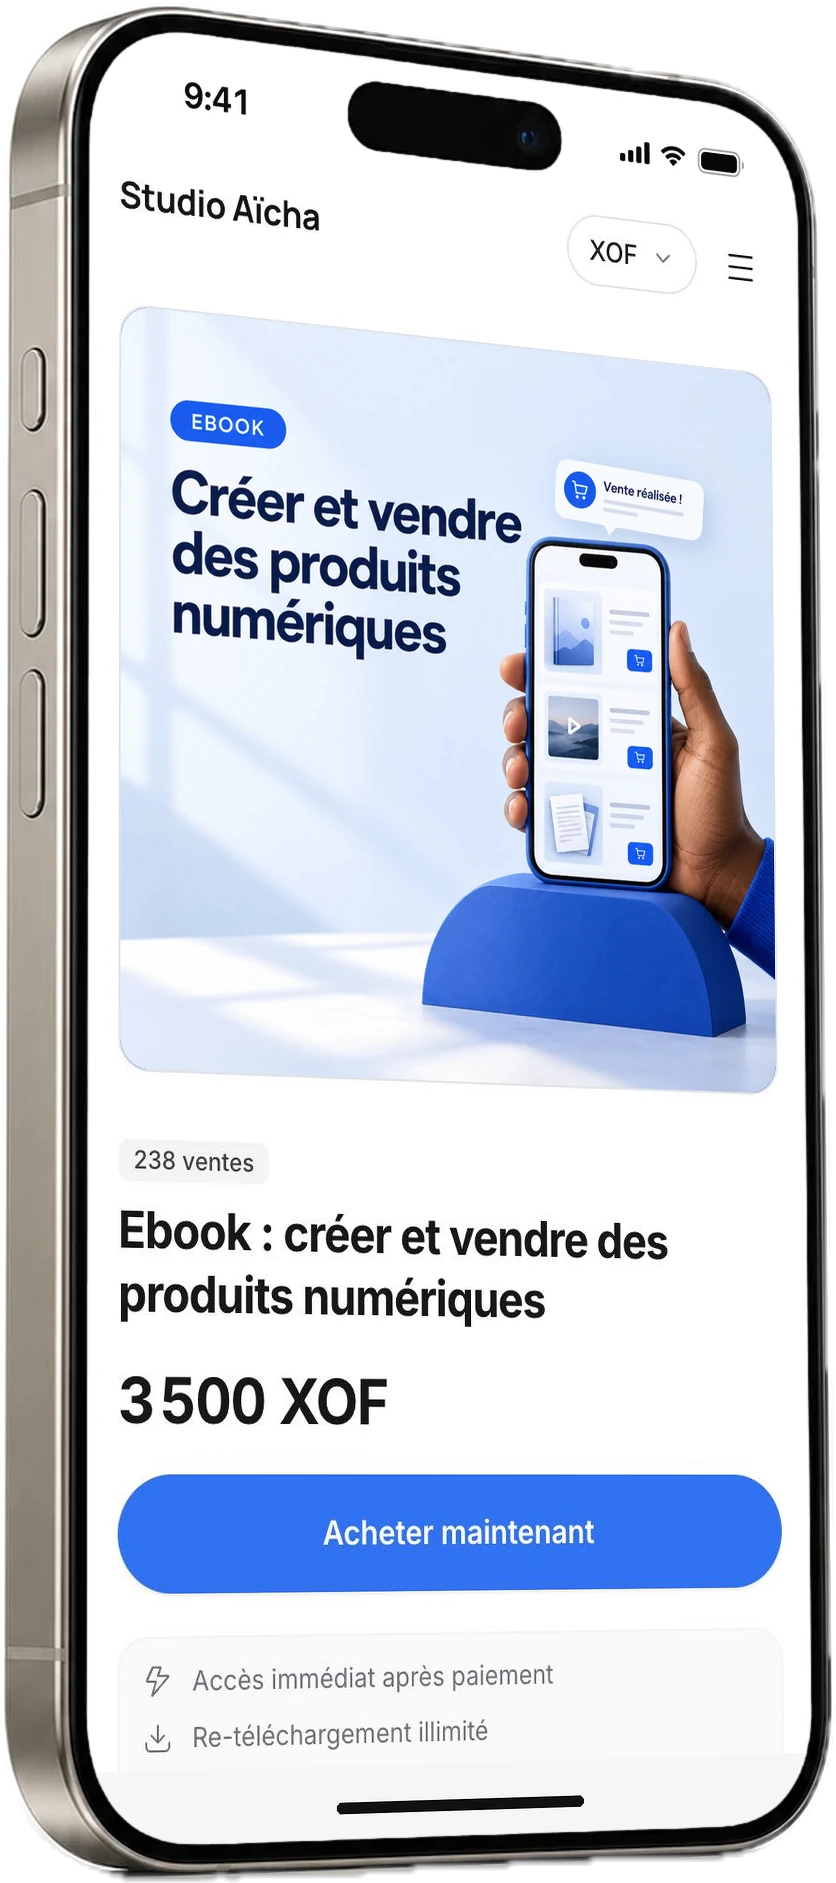
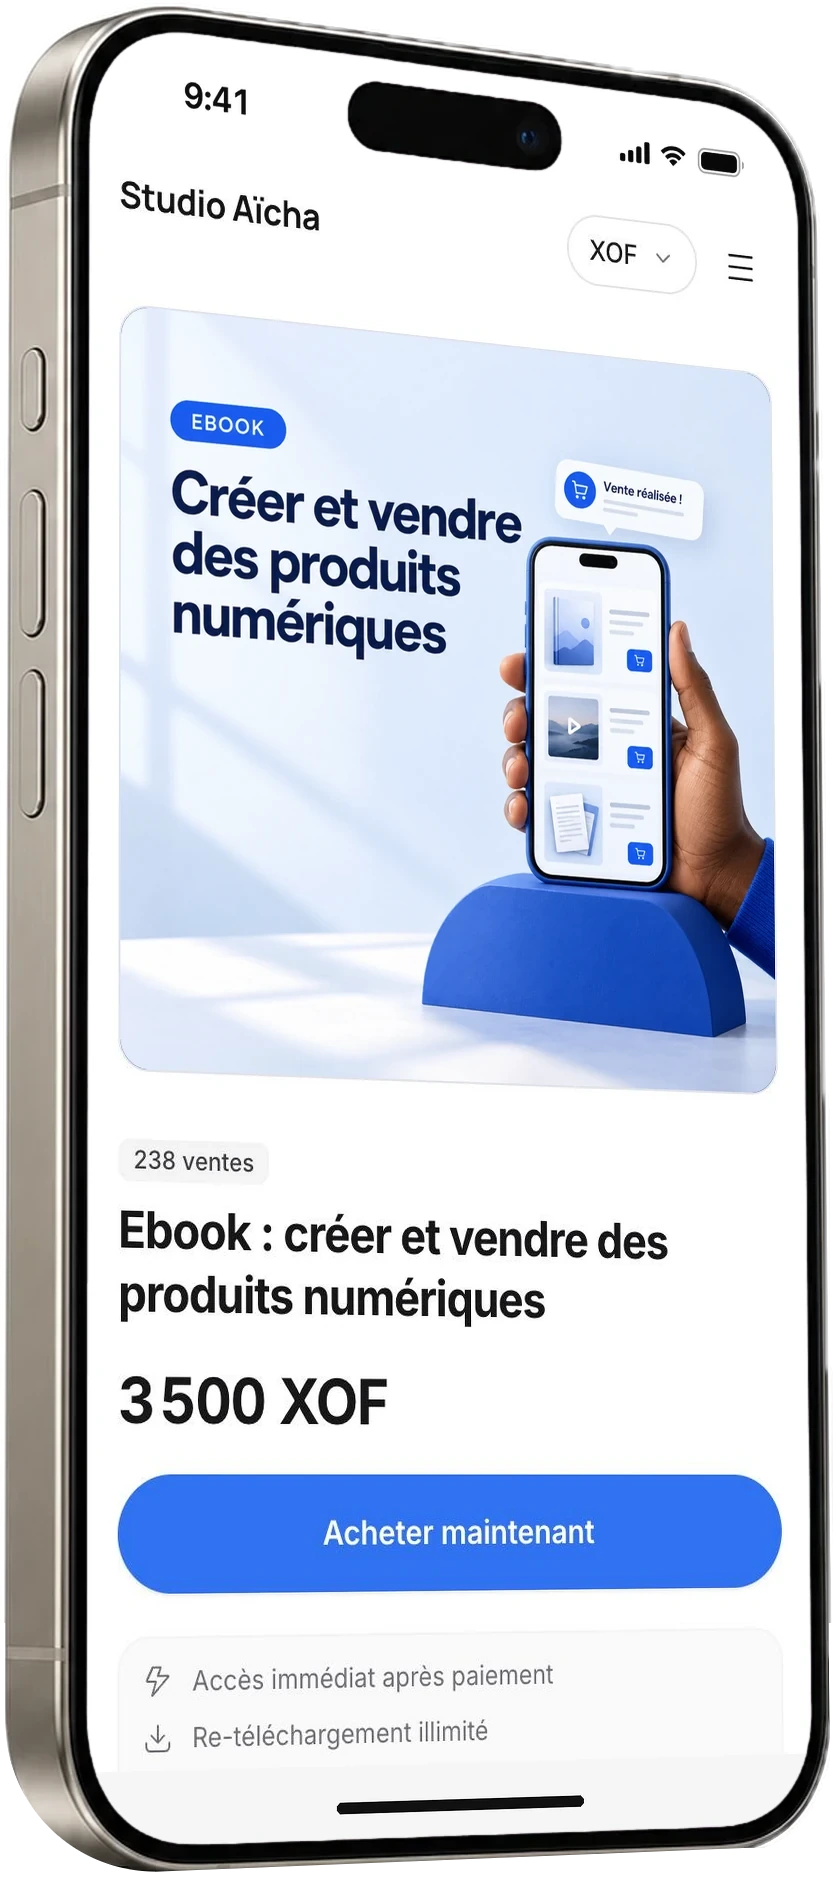
Hero : bas du téléphone détouré proprement
La bande d'ombre sombre et les ergots laissés sous le cadre sont retirés :
le contour du bas est modélisé (bords droits, bord inférieur ajusté sur le
titane, coins en arcs tangents) par outils/images/bord-bas.py.

Claude-Session: https://claude.ai/code/session_01WF1VizXfKDtoFhs7FXrbow

Changed region(s): [[0.0933, 0.9549, 0.9019, 1.0], [0.0311, 0.9549, 0.0933, 0.9857]]

diff --git a/site/index.html b/site/index.html
@@ -112,7 +112,7 @@
           <span class="stage__arch" aria-hidden="true"></span>
           <span class="stage__floor" aria-hidden="true"></span>
           <span class="stage__sh stage__sh--phone" aria-hidden="true"></span><span class="stage__sh stage__sh--buyer" aria-hidden="true"></span><span class="stage__sh stage__sh--shoes" aria-hidden="true"></span><span class="stage__sh stage__sh--seller" aria-hidden="true"></span>
-          <img class="stage__phone" src="assets/r/hero-phone-560-693a3022.webp" srcset="assets/r/hero-phone-360-693a3022.webp 360w, assets/r/hero-phone-560-693a3022.webp 560w, assets/r/hero-phone-836-693a3022.webp 836w" sizes="(max-width: 640px) 42vw, 230px" alt="" width="836" height="1883" fetchpriority="high" decoding="async">
+          <img class="stage__phone" src="assets/r/hero-phone-560-8a22b79e.webp" srcset="assets/r/hero-phone-360-8a22b79e.webp 360w, assets/r/hero-phone-560-8a22b79e.webp 560w, assets/r/hero-phone-836-8a22b79e.webp 836w" sizes="(max-width: 640px) 42vw, 230px" alt="" width="836" height="1883" fetchpriority="high" decoding="async">
           <img class="stage__p stage__p--buyer" src="assets/r/hero-acheteur-560-e4de54a0.webp" srcset="assets/r/hero-acheteur-360-e4de54a0.webp 360w, assets/r/hero-acheteur-560-e4de54a0.webp 560w, assets/r/hero-acheteur-840-e4de54a0.webp 840w, assets/r/hero-acheteur-1009-e4de54a0.webp 1009w" sizes="(max-width: 640px) 42vw, 230px" alt="" width="1009" height="964" decoding="async">
           <img class="stage__p stage__p--seller" src="assets/r/hero-creatrice-450-2007d70a.webp" srcset="assets/r/hero-creatrice-360-2007d70a.webp 360w, assets/r/hero-creatrice-450-2007d70a.webp 450w" sizes="(max-width: 640px) 42vw, 230px" alt="" width="450" height="1256" decoding="async">
           <ul class="notifs" aria-hidden="true"><li class="notif"><span class="notif__app"><img src="assets/brand/symbole.svg" alt="" width="24" height="24"></span><span class="notif__txt"><span class="notif__top"><b>Une vente ! Mepaye te paye 🎉</b><i>maintenant</i></span><span class="notif__msg">Tu viens de vendre pour 3 500 XOF</span></span></li></ul>

diff --git a/outils/images/bord-bas.py b/outils/images/bord-bas.py
@@ -1,0 +1,47 @@
+"""Nettoie le bas d'un téléphone détouré (hero). Le contour du bas est modélisé comme celui d'un vrai iPhone :
+bords gauche et droit (droites mesurées sur l'image), bord inférieur (droite ajustée sur le dernier pixel de
+titane clair de la partie plate), coins en arcs de cercle tangents. Tout ce qui dépasse ce contour
+(bande d'ombre sombre, ergots, halo) est retiré, avec un anticrénelage d'un pixel ; rien n'est ajouté.
+Usage : python3 bord-bas.py source.webp sortie.webp [R_gauche] [R_droit]"""
+import sys, numpy as np
+from PIL import Image
+src, dst = sys.argv[1], sys.argv[2]
+R = float(sys.argv[3]) if len(sys.argv) > 3 else 150      # coin gauche
+R2 = float(sys.argv[4]) if len(sys.argv) > 4 else 70     # coin droit, plus serré dans la perspective
+im = np.asarray(Image.open(src).convert('RGBA')).astype(np.float32)
+h, w = im.shape[:2]; a = im[..., 3]; L = im[..., :3].mean(2)
+m = a > 128
+# bords latéraux : x = p*y + q, mesurés sur une portion droite
+ys = np.arange(h - 700, h - 260)
+pl, ql = np.polyfit(ys, [np.argmax(m[y]) for y in ys], 1)
+pr, qr = np.polyfit(ys, [w - 1 - np.argmax(m[y][::-1]) for y in ys], 1)
+# bord inférieur : y = r*x + s, sur le dernier pixel de titane clair au centre
+zone = 140; y0 = h - zone
+bx = np.arange(int(w * .2), int(w * .8)); yb = []
+for x in bx:
+    ok = np.nonzero((a[y0:, x] > 180) & (L[y0:, x] > 95))[0]; yb.append(y0 + ok.max() if len(ok) else np.nan)
+yb = np.array(yb); g = ~np.isnan(yb)
+r, s = np.polyfit(bx[g], yb[g], 1)
+for _ in range(3):                                   # robustesse : on écarte les ergots
+    res = yb[g] - (r * bx[g] + s); keep = np.abs(res) < max(1.5, 2 * res.std()); r, s = np.polyfit(bx[g][keep], yb[g][keep], 1)
+yy, xx = np.mgrid[0:h, 0:w].astype(np.float32)
+nb = np.hypot(1, r)
+d_bot = ((r * xx + s + .5) - yy) / nb                # > 0 au-dessus du bord inférieur
+d_l = (xx - (pl * yy + ql)) / np.hypot(1, pl)        # > 0 à droite du bord gauche
+d_r = ((pr * yy + qr) - xx) / np.hypot(1, pr)        # > 0 à gauche du bord droit
+def corner(dside, cx_guess, sign):
+    # centre de l'arc : à R du bord latéral et du bord inférieur
+    from scipy.optimize import fsolve
+    if sign < 0: f = lambda c: [(c[0] - (pl * c[1] + ql)) / np.hypot(1, pl) - R, ((r * c[0] + s + .5) - c[1]) / nb - R]
+    else:        f = lambda c: [((pr * c[1] + qr) - c[0]) / np.hypot(1, pr) - R2, ((r * c[0] + s + .5) - c[1]) / nb - R2]
+    return fsolve(f, [cx_guess, h - (R if sign < 0 else R2)])
+clx, cly = corner(d_l, ql + R, -1); crx, cry = corner(d_r, qr - R, 1)
+dist = np.minimum(np.minimum(d_bot, d_l), d_r)
+inl = (xx < clx) & (yy > cly); inr = (xx > crx) & (yy > cry)
+dist = np.where(inl, R - np.hypot(xx - clx, yy - cly), dist)
+dist = np.where(inr, R2 - np.hypot(xx - crx, yy - cry), dist)
+shape = np.clip(dist + .5, 0, 1)
+shape[:h - 260] = 1                                   # on ne touche qu'au bas
+out = im.copy(); out[..., 3] = np.minimum(a, shape * 255)
+Image.fromarray(out.clip(0, 255).astype(np.uint8)).save(dst, 'WEBP', quality=92, method=6, exact=True)
+print('gauche x=%.4fy+%.1f droite x=%.4fy+%.1f bas y=%.4fx+%.1f arcs (%.0f,%.0f) (%.0f,%.0f)' % (pl, ql, pr, qr, r, s, clx, cly, crx, cry))
